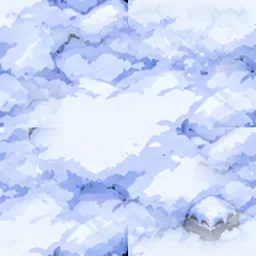
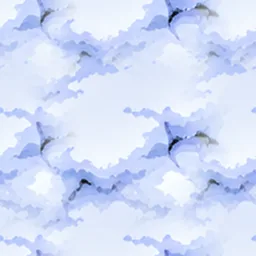
Whiteout Station: burning lab uses the game's own animated fire (no GIF), cleaner snow tile
Claude-Session: https://claude.ai/code/session_01DZ7TQ884r4s3ytnVNv4XVF

diff --git a/client/whiteoutArt.js b/client/whiteoutArt.js
@@ -1,3 +1,3 @@
 // GENERATED by tools/extract-whiteout.py: Whiteout Station piece sizes + lights / fires (offsets from the bottom centre)
-export const WO_ART = {"wLab":{"url":"assets/map/wo/wLab.webp","w":400,"h":355,"lights":[[35,-209],[1,-210],[-32,-209],[-123,-117],[3,-119],[60,-137],[-82,-138],[115,-137],[181,-105,1],[162,-289,1]]},"wDome":{"url":"assets/map/wo/wDome.webp","w":380,"h":344,"lights":[[-149,-95],[167,-100],[-104,-37,1]]},"wQuarters":{"url":"assets/map/wo/wQuarters.webp","w":390,"h":363,"lights":[[-100,-92],[89,-85],[-18,-174],[-103,-204],[-132,-170],[70,-198],[-39,-71],[96,-163],[55,-80],[49,-170],[-130,-51,1],[28,-150,1]]},"wHangar":{"url":"assets/map/wo/wHangar.webp","w":430,"h":326,"lights":[[-46,-34],[47,-31],[61,-122],[-63,-132],[1,-19],[0,-132],[-100,-72],[-51,-243],[51,-243],[-125,-107],[-159,-71,1],[-136,-144,1]]},"wRig":{"url":"assets/map/wo/wRig.webp","w":440,"h":409,"lights":[[-119,-142],[37,-357],[193,-62],[35,-129],[136,-58],[8,-360],[31,-253],[-174,-138],[0,-176],[115,-268],[144,-135,1],[-181,-210,1]]},"wPlane":{"url":"assets/map/wo/wPlane.webp","w":540,"h":474,"lights":[[110,-364],[-197,-116],[137,-136],[141,-285,1],[28,-31,1]]},"wWall":{"url":"assets/map/wo/wWall.webp","w":520,"h":161,"lights":[[-141,-77],[143,-77],[-1,-78],[-209,-152],[-230,-115,1]]},"wGate":{"url":"assets/map/wo/wGate.webp","w":760,"h":245,"lights":[[230,-171],[-230,-172],[-232,-115],[194,-169],[231,-115],[269,-166],[-231,-47],[231,-47],[-193,-171],[342,-87],[166,-29],[-269,-170],[341,-47,1],[-343,-47,1]]},"wLabBurnt":{"url":"assets/map/wo/wLabBurnt.webp","w":408,"h":370,"frames":9,"ms":130,"ax":201,"fires":[[22,-281,1.3],[-119,-110,1.1],[74,-111,1.08],[-33,-209,1.06]],"anim":1},"wContainers":{"url":"assets/map/wo/wContainers.webp","w":210,"h":188},"wGenerator":{"url":"assets/map/wo/wGenerator.webp","w":150,"h":109},"wTank":{"url":"assets/map/wo/wTank.webp","w":190,"h":180},"wTankRound":{"url":"assets/map/wo/wTankRound.webp","w":165,"h":180},"wSnowcat":{"url":"assets/map/wo/wSnowcat.webp","w":180,"h":146,"lights":[[-4,-104],[-42,-72],[-31,-66,1]]},"wTruck":{"url":"assets/map/wo/wTruck.webp","w":205,"h":171,"lights":[[8,-78],[-66,-89]]},"wForklift":{"url":"assets/map/wo/wForklift.webp","w":135,"h":117,"lights":[]},"wBuggy":{"url":"assets/map/wo/wBuggy.webp","w":140,"h":107,"lights":[]},"wWatchtower":{"url":"assets/map/wo/wWatchtower.webp","w":140,"h":186,"lights":[[-16,-122],[24,-124],[-52,-108]]},"wMast":{"url":"assets/map/wo/wMast.webp","w":100,"h":152,"lights":[[6,-144],[-1,-142,1]]},"wDish":{"url":"assets/map/wo/wDish.webp","w":160,"h":175},"wShed":{"url":"assets/map/wo/wShed.webp","w":200,"h":137,"lights":[[-52,-73],[54,-69,1]]},"wSandbags":{"url":"assets/map/wo/wSandbags.webp","w":190,"h":155,"lights":[[4,-45],[50,-133]]},"wBarrier":{"url":"assets/map/wo/wBarrier.webp","w":150,"h":105},"wCrates":{"url":"assets/map/wo/wCrates.webp","w":150,"h":135},"wGasRack":{"url":"assets/map/wo/wGasRack.webp","w":130,"h":116},"wRocks":{"url":"assets/map/wo/wRocks.webp","w":150,"h":132},"wIce":{"url":"assets/map/wo/wIce.webp","w":150,"h":139},"wPines":{"url":"assets/map/wo/wPines.webp","w":140,"h":140},"wRockArch":{"url":"assets/map/wo/wRockArch.webp","w":150,"h":101},"wFloodlight":{"url":"assets/map/wo/wFloodlight.webp","w":110,"h":126,"lights":[[19,-96]]},"wLamp":{"url":"assets/map/wo/wLamp.webp","w":84,"h":130,"lights":[[19,-97]]},"wWindsock":{"url":"assets/map/wo/wWindsock.webp","w":90,"h":117},"wBeacon":{"url":"assets/map/wo/wBeacon.webp","w":90,"h":105,"lights":[[3,-96],[2,-95,1]]},"wShelf":{"url":"assets/map/wo/wShelf.webp","w":140,"h":138},"wPipes":{"url":"assets/map/wo/wPipes.webp","w":140,"h":94},"wBarrels":{"url":"assets/map/wo/wBarrels.webp","w":110,"h":93},"wBigCrate":{"url":"assets/map/wo/wBigCrate.webp","w":140,"h":115,"lights":[[-40,-60],[-19,-64,1],[-45,-28,1]]},"wFence":{"url":"assets/map/wo/wFence.webp","w":150,"h":140},"wSign":{"url":"assets/map/wo/wSign.webp","w":110,"h":115},"wFlag":{"url":"assets/map/wo/wFlag.webp","w":90,"h":104}};
+export const WO_ART = {"wLab":{"url":"assets/map/wo/wLab.webp","w":400,"h":355,"lights":[[35,-209],[1,-210],[-32,-209],[-123,-117],[3,-119],[60,-137],[-82,-138],[115,-137],[181,-105,1],[162,-289,1]]},"wDome":{"url":"assets/map/wo/wDome.webp","w":380,"h":344,"lights":[[-149,-95],[167,-100],[-104,-37,1]]},"wQuarters":{"url":"assets/map/wo/wQuarters.webp","w":390,"h":363,"lights":[[-100,-92],[89,-85],[-18,-174],[-103,-204],[-132,-170],[70,-198],[-39,-71],[96,-163],[55,-80],[49,-170],[-130,-51,1],[28,-150,1]]},"wHangar":{"url":"assets/map/wo/wHangar.webp","w":430,"h":326,"lights":[[-46,-34],[47,-31],[61,-122],[-63,-132],[1,-19],[0,-132],[-100,-72],[-51,-243],[51,-243],[-125,-107],[-159,-71,1],[-136,-144,1]]},"wRig":{"url":"assets/map/wo/wRig.webp","w":440,"h":409,"lights":[[-119,-142],[37,-357],[193,-62],[35,-129],[136,-58],[8,-360],[31,-253],[-174,-138],[0,-176],[115,-268],[144,-135,1],[-181,-210,1]]},"wPlane":{"url":"assets/map/wo/wPlane.webp","w":540,"h":474,"lights":[[110,-364],[-197,-116],[137,-136],[141,-285,1],[28,-31,1]]},"wWall":{"url":"assets/map/wo/wWall.webp","w":520,"h":161,"lights":[[-141,-77],[143,-77],[-1,-78],[-209,-152],[-230,-115,1]]},"wGate":{"url":"assets/map/wo/wGate.webp","w":760,"h":245,"lights":[[230,-171],[-230,-172],[-232,-115],[194,-169],[231,-115],[269,-166],[-231,-47],[231,-47],[-193,-171],[342,-87],[166,-29],[-269,-170],[341,-47,1],[-343,-47,1]]},"wLabBurnt":{"url":"assets/map/wo/wLabBurnt.webp","w":400,"h":361,"fires":[[29,-275,1.4],[-27,-276,1.27],[-96,-223,1.08],[-34,-207,1.06],[-69,-139,0.97],[-118,-114,0.97],[18,-231,0.95]]},"wContainers":{"url":"assets/map/wo/wContainers.webp","w":210,"h":188},"wGenerator":{"url":"assets/map/wo/wGenerator.webp","w":150,"h":109},"wTank":{"url":"assets/map/wo/wTank.webp","w":190,"h":180},"wTankRound":{"url":"assets/map/wo/wTankRound.webp","w":165,"h":180},"wSnowcat":{"url":"assets/map/wo/wSnowcat.webp","w":180,"h":146,"lights":[[-4,-104],[-42,-72],[-31,-66,1]]},"wTruck":{"url":"assets/map/wo/wTruck.webp","w":205,"h":171,"lights":[[8,-78],[-66,-89]]},"wForklift":{"url":"assets/map/wo/wForklift.webp","w":135,"h":117,"lights":[]},"wBuggy":{"url":"assets/map/wo/wBuggy.webp","w":140,"h":107,"lights":[]},"wWatchtower":{"url":"assets/map/wo/wWatchtower.webp","w":140,"h":186,"lights":[[-16,-122],[24,-124],[-52,-108]]},"wMast":{"url":"assets/map/wo/wMast.webp","w":100,"h":152,"lights":[[6,-144],[-1,-142,1]]},"wDish":{"url":"assets/map/wo/wDish.webp","w":160,"h":175},"wShed":{"url":"assets/map/wo/wShed.webp","w":200,"h":137,"lights":[[-52,-73],[54,-69,1]]},"wSandbags":{"url":"assets/map/wo/wSandbags.webp","w":190,"h":155,"lights":[[4,-45],[50,-133]]},"wBarrier":{"url":"assets/map/wo/wBarrier.webp","w":150,"h":105},"wCrates":{"url":"assets/map/wo/wCrates.webp","w":150,"h":135},"wGasRack":{"url":"assets/map/wo/wGasRack.webp","w":130,"h":116},"wRocks":{"url":"assets/map/wo/wRocks.webp","w":150,"h":132},"wIce":{"url":"assets/map/wo/wIce.webp","w":150,"h":139},"wPines":{"url":"assets/map/wo/wPines.webp","w":140,"h":140},"wRockArch":{"url":"assets/map/wo/wRockArch.webp","w":150,"h":101},"wFloodlight":{"url":"assets/map/wo/wFloodlight.webp","w":110,"h":126,"lights":[[19,-96]]},"wLamp":{"url":"assets/map/wo/wLamp.webp","w":84,"h":130,"lights":[[19,-97]]},"wWindsock":{"url":"assets/map/wo/wWindsock.webp","w":90,"h":117},"wBeacon":{"url":"assets/map/wo/wBeacon.webp","w":90,"h":105,"lights":[[3,-96],[2,-95,1]]},"wShelf":{"url":"assets/map/wo/wShelf.webp","w":140,"h":138},"wPipes":{"url":"assets/map/wo/wPipes.webp","w":140,"h":94},"wBarrels":{"url":"assets/map/wo/wBarrels.webp","w":110,"h":93},"wBigCrate":{"url":"assets/map/wo/wBigCrate.webp","w":140,"h":115,"lights":[[-40,-60],[-19,-64,1],[-45,-28,1]]},"wFence":{"url":"assets/map/wo/wFence.webp","w":150,"h":140},"wSign":{"url":"assets/map/wo/wSign.webp","w":110,"h":115},"wFlag":{"url":"assets/map/wo/wFlag.webp","w":90,"h":104}};
 export const WO_TILES = {"snow":"assets/map/wo/tile-snow.webp","ice":"assets/map/wo/tile-ice.webp","metal":"assets/map/wo/tile-metal.webp","concrete":"assets/map/wo/tile-concrete.webp"};

diff --git a/client/mapLayout.js b/client/mapLayout.js
@@ -139,7 +139,7 @@ export function buildDynastyLayout(WW, WH, start = 8888) {
 // ---------- WHITEOUT STATION (grid map, Nov 10): an Antarctic research station built as a TIGHT MAZE (art: tools/extract-whiteout.py) ----------
 // Sprite sizes (game px). Footprints cover most of each sprite's height (not just its base like the older maps): in narrow lanes you
 // must never be able to walk "behind" a building and vanish under its roof.
-export const WO_SIZE = { wLab: [400, 355], wDome: [380, 344], wQuarters: [390, 363], wHangar: [430, 326], wRig: [440, 409], wPlane: [540, 474], wWall: [520, 161], wGate: [760, 245], wLabBurnt: [408, 370], wContainers: [210, 188], wGenerator: [150, 109], wTank: [190, 180], wTankRound: [165, 180], wSnowcat: [180, 146], wTruck: [205, 171], wForklift: [135, 117], wBuggy: [140, 107], wWatchtower: [140, 186], wMast: [100, 152], wDish: [160, 175], wShed: [200, 137], wSandbags: [190, 155], wBarrier: [150, 105], wCrates: [150, 135], wGasRack: [130, 116], wRocks: [150, 132], wIce: [150, 139], wPines: [140, 140], wRockArch: [150, 101], wFloodlight: [110, 126], wLamp: [84, 130], wWindsock: [90, 117], wBeacon: [90, 105], wShelf: [140, 138], wPipes: [140, 94], wBarrels: [110, 93], wBigCrate: [140, 115], wFence: [150, 140], wSign: [110, 115], wFlag: [90, 104] };
+export const WO_SIZE = { wLab: [400, 355], wDome: [380, 344], wQuarters: [390, 363], wHangar: [430, 326], wRig: [440, 409], wPlane: [540, 474], wWall: [520, 161], wGate: [760, 245], wLabBurnt: [400, 361], wContainers: [210, 188], wGenerator: [150, 109], wTank: [190, 180], wTankRound: [165, 180], wSnowcat: [180, 146], wTruck: [205, 171], wForklift: [135, 117], wBuggy: [140, 107], wWatchtower: [140, 186], wMast: [100, 152], wDish: [160, 175], wShed: [200, 137], wSandbags: [190, 155], wBarrier: [150, 105], wCrates: [150, 135], wGasRack: [130, 116], wRocks: [150, 132], wIce: [150, 139], wPines: [140, 140], wRockArch: [150, 101], wFloodlight: [110, 126], wLamp: [84, 130], wWindsock: [90, 117], wBeacon: [90, 105], wShelf: [140, 138], wPipes: [140, 94], wBarrels: [110, 93], wBigCrate: [140, 115], wFence: [150, 140], wSign: [110, 115], wFlag: [90, 104] };
 export const WO_KINDS = Object.keys(WO_SIZE);
 const woBox = (k, wf = .45, hf = .72) => { const [w, h] = WO_SIZE[k]; return { ox: 0, oy: -Math.round((h * hf + 6) / 2), hw: Math.round(w * wf), hh: Math.round((h * hf - 6) / 2) }; };
 for (const k of WO_KINDS) MAP_SOLID[k] = woBox(k);

diff --git a/server/src/mapLayout.js b/server/src/mapLayout.js
@@ -139,7 +139,7 @@ export function buildDynastyLayout(WW, WH, start = 8888) {
 // ---------- WHITEOUT STATION (grid map, Nov 10): an Antarctic research station built as a TIGHT MAZE (art: tools/extract-whiteout.py) ----------
 // Sprite sizes (game px). Footprints cover most of each sprite's height (not just its base like the older maps): in narrow lanes you
 // must never be able to walk "behind" a building and vanish under its roof.
-export const WO_SIZE = { wLab: [400, 355], wDome: [380, 344], wQuarters: [390, 363], wHangar: [430, 326], wRig: [440, 409], wPlane: [540, 474], wWall: [520, 161], wGate: [760, 245], wLabBurnt: [408, 370], wContainers: [210, 188], wGenerator: [150, 109], wTank: [190, 180], wTankRound: [165, 180], wSnowcat: [180, 146], wTruck: [205, 171], wForklift: [135, 117], wBuggy: [140, 107], wWatchtower: [140, 186], wMast: [100, 152], wDish: [160, 175], wShed: [200, 137], wSandbags: [190, 155], wBarrier: [150, 105], wCrates: [150, 135], wGasRack: [130, 116], wRocks: [150, 132], wIce: [150, 139], wPines: [140, 140], wRockArch: [150, 101], wFloodlight: [110, 126], wLamp: [84, 130], wWindsock: [90, 117], wBeacon: [90, 105], wShelf: [140, 138], wPipes: [140, 94], wBarrels: [110, 93], wBigCrate: [140, 115], wFence: [150, 140], wSign: [110, 115], wFlag: [90, 104] };
+export const WO_SIZE = { wLab: [400, 355], wDome: [380, 344], wQuarters: [390, 363], wHangar: [430, 326], wRig: [440, 409], wPlane: [540, 474], wWall: [520, 161], wGate: [760, 245], wLabBurnt: [400, 361], wContainers: [210, 188], wGenerator: [150, 109], wTank: [190, 180], wTankRound: [165, 180], wSnowcat: [180, 146], wTruck: [205, 171], wForklift: [135, 117], wBuggy: [140, 107], wWatchtower: [140, 186], wMast: [100, 152], wDish: [160, 175], wShed: [200, 137], wSandbags: [190, 155], wBarrier: [150, 105], wCrates: [150, 135], wGasRack: [130, 116], wRocks: [150, 132], wIce: [150, 139], wPines: [140, 140], wRockArch: [150, 101], wFloodlight: [110, 126], wLamp: [84, 130], wWindsock: [90, 117], wBeacon: [90, 105], wShelf: [140, 138], wPipes: [140, 94], wBarrels: [110, 93], wBigCrate: [140, 115], wFence: [150, 140], wSign: [110, 115], wFlag: [90, 104] };
 export const WO_KINDS = Object.keys(WO_SIZE);
 const woBox = (k, wf = .45, hf = .72) => { const [w, h] = WO_SIZE[k]; return { ox: 0, oy: -Math.round((h * hf + 6) / 2), hw: Math.round(w * wf), hh: Math.round((h * hf - 6) / 2) }; };
 for (const k of WO_KINDS) MAP_SOLID[k] = woBox(k);

diff --git a/client/client.js b/client/client.js
@@ -3583,11 +3583,12 @@ function dynPieceFx(d, a) {
     ctx.globalCompositeOperation = "lighter"; ctx.globalAlpha = 1;
     const g = ctx.createRadialGradient(x, y, 2, x, y, 46 * s); g.addColorStop(0, `rgba(255,150,50,${.4 * k})`); g.addColorStop(1, "rgba(255,90,20,0)"); ctx.fillStyle = g; ctx.fillRect(x - 46 * s, y - 46 * s, 92 * s, 92 * s);
     ctx.globalCompositeOperation = "source-over"; if (a.anim) return;   // the art already burns: only the glow
-    if (i === 0 && mapFireImg.naturalWidth) for (let j = 0; j < 4; j++) {   // smoke from the biggest fire
+    if ((i === 0 || (i < 3 && d.kind[0] === "w")) && mapFireImg.naturalWidth) for (let j = 0; j < 4; j++) {   // smoke from the biggest fire (the three biggest on Whiteout Station's burning lab)
       const u = (t * .08 + j / 4 + seed * .01) % 1, r = (18 + u * 50) * s;
       ctx.globalAlpha = .55 * Math.sin(u * Math.PI); ctx.drawImage(mapFireImg, 0, MFIRE.h, MFIRE.puff, MFIRE.puff, x + u * 24 * s - r / 2, y - 20 * s - u * 130 * s - r / 2, r, r);
     }
-    drawFireSprite(x, y + 10 * s, s * .62, i * 5 + seed, t, .95);
+    if (d.kind[0] === "w") { drawFireSprite(x - 9 * s, y + 12 * s, s * .8, i * 5 + seed + 3, t, .9); drawFireSprite(x + 8 * s, y + 12 * s, s * .9, i * 7 + seed, t, .95); }   // Whiteout Station's lab: a fuller blaze at each spot
+    else drawFireSprite(x, y + 10 * s, s * .62, i * 5 + seed, t, .95);
   });
   if (a.lights) {   // lanterns / lit windows: soft warm halo that breathes and now and then stutters
     ctx.globalCompositeOperation = "lighter";

diff --git a/client/index.html b/client/index.html
@@ -533,5 +533,5 @@ body.in-match #ls{display:none}
 <div id="spectate" class="spectate hidden" aria-live="polite"><b id="specTitle"></b><span><span id="specWho"></span><small id="specHint"> · Space / ← → / click to switch</small></span></div>
  <div id="overlay" class="overlay hidden"><div class="modal"><div style="font-size:42px">☣</div><h2 id="overlayTitle"></h2><p class="muted" id="overlayText"></p><div id="shop" class="shop hidden" aria-label="Shop"></div><div id="breakBtns" class="break-btns hidden"><button class="button primary" id="breakReady">READY</button><button class="button" id="breakMin">▾ MINIMIZE · BUILD FIRST</button><button class="button hidden" id="nextStage">START NOW</button></div><button class="button primary hidden" id="restartGame">PLAY AGAIN</button></div></div>
 </section>
-<script type="module" src="./client.js?v=20261110k"></script>
+<script type="module" src="./client.js?v=20261110l"></script>
 </body></html>

diff --git a/tools/extract-whiteout.py b/tools/extract-whiteout.py
@@ -1,6 +1,6 @@
 # WHITEOUT STATION (grid map, Nov 10) pieces from the user's ChatGPT art in tools/art/whiteout (all on solid magenta #FF00FF):
 #   big-<name>.png   one big building per image (lab, labBurnt, dome, quarters, hangar, rig, plane, wall, gate)
-#   labBurnt.gif     the burning lab ANIMATED (9 frames, 412px): used for wLabBurnt instead of the still picture
+#   labBurnt.gif     an animated version of the burning lab (not used any more: the game animates its own fire on the still picture)
 #   buildings.png    4x4 sheet with black grid lines: containers, generator, tank, round tank / snowcat, truck, forklift, buggy /
 #                    watchtower, mast, dish, shed / sandbags, barrier, crates, gas rack
 #   props.png        4x4 sheet: rocks, ice spikes, pines, rock arch / floodlight, lamp, windsock, beacon / shelf, pipes, barrels, big crate /
@@ -78,20 +78,10 @@ def load(name): return key(np.array(Image.open(os.path.join(ART, name)).convert(
 BIG = {'lab': (400, 8), 'dome': (380, 5), 'quarters': (390, 10), 'hangar': (430, 10), 'rig': (440, 10), 'plane': (540, 3), 'wall': (520, 5), 'gate': (760, 12)}
 for k, (w, nl) in BIG.items(): save('w' + k[0].upper() + k[1:], load('big-' + k + '.png'), w, nl)
 
-# the burning lab: the user's animated GIF -> one row of frames, all cut with the same box so the building doesn't jump
-g = Image.open(os.path.join(ART, 'labBurnt.gif')); frames = []
-for i in range(g.n_frames): g.seek(i); frames.append(key(np.array(g.convert('RGB'))))
-allm = np.any([f[..., 3] > 0 for f in frames], 0); ys, xs = np.where(allm); y0, y1, x0, x1 = ys.min(), ys.max() + 1, xs.min(), xs.max() + 1
-body = np.all([f[..., 3] > 0 for f in frames], 0); bx = np.where(body.any(0))[0]   # the building itself (in every frame): its width sets the scale, like the still lab
-sc = 400 / (bx.max() - bx.min() + 1) * (1254 / 1254); fw, fh = round((x1 - x0) * sc), round((y1 - y0) * sc)
-sheet = Image.new('RGBA', (fw * len(frames), fh))
-for i, f in enumerate(frames):
-    im = Image.fromarray(np.ascontiguousarray(f[y0:y1, x0:x1])).resize((fw, fh), Image.LANCZOS); a = np.array(im); a[..., 3] = np.where(a[..., 3] > 90, 255, 0); sheet.paste(Image.fromarray(a), (i * fw, 0))
-sheet.save(os.path.join(OUT, 'wLabBurnt.webp'), quality=74, method=6, alpha_quality=80)
-a0 = np.array(sheet)[:, :fw]; cxb = (bx.min() + bx.max() + 1) / 2 - x0   # the building's centre inside the frame (smoke hangs off to the right)
-pieces['wLabBurnt'] = {'url': 'assets/map/wo/wLabBurnt.webp', 'w': fw, 'h': fh, 'frames': len(frames), 'ms': g.info.get('duration', 130), 'ax': round(cxb * sc),
-                       'fires': [[round(x - cxb * sc), round(y - fh), round(min(1.4, .45 + (s ** .5) / 30), 2)] for x, y, s in spots(a0, 'fire', 4)], 'anim': 1}
-print(f'wLabBurnt    {fw}x{fh} x {len(frames)} frames, centre x {round(cxb * sc)}, fires {len(pieces["wLabBurnt"]["fires"])}, {os.path.getsize(os.path.join(OUT, "wLabBurnt.webp")) // 1024} KB')
+# the burning lab (Nov 10, user: no GIF, "do your own magic"): the still picture; the game adds its own animated flames, rising smoke,
+# glow and embers at the fire spots found here (same as Fallen Dynasty's burnt shops). Cutting the painted smoke cloud away was tried and
+# dropped: it is the same dark grey as the roof machinery and took pieces of the building with it.
+save('wLabBurnt', load('big-labBurnt.png'), 400, 0, 7)
 
 b = grid_cells(load('buildings.png'), 4)
 BLD = [[('wContainers', 210, 0), ('wGenerator', 150, 0), ('wTank', 190, 0), ('wTankRound', 165, 0)],
@@ -120,9 +110,16 @@ def blend(a):   # organic textures: blend with a half-offset copy (edges come fr
     a = a.astype(float); h, w = a.shape[:2]; s = np.roll(np.roll(a, h // 2, 0), w // 2, 1)
     yy, xx = np.mgrid[0:h, 0:w]; d = np.minimum.reduce([xx, yy, w - 1 - xx, h - 1 - yy]) / (min(h, w) * .25)
     k = np.clip(d, 0, 1)[..., None]; return (a * k + s * (1 - k)).astype(np.uint8)
+def soft_blend(a):   # snow: flatten the big light / dark areas first (they showed as squares when the tile repeats), then make it wrap
+    a = a.astype(float); h, w = a.shape[:2]; a = np.clip(a - ndimage.gaussian_filter(a, (h * .16, w * .16, 0), mode='wrap') + a.mean((0, 1)), 0, 255)
+    # two passes (across, then down): each blends with a copy shifted half a tile along ONE axis, so no seam of the copy is ever left showing
+    for ax, n in ((1, w), (0, h)):
+        k = np.clip((np.abs(np.arange(n) - n / 2) / (n / 2) - .35) / .5, 0, 1); k = k * k * (3 - 2 * k); k = k[None, :, None] if ax == 1 else k[:, None, None]
+        a = a * (1 - k) + np.roll(a, n // 2, ax) * k
+    return a.astype(np.uint8)
 def mirror(a): top = np.concatenate([a, a[:, ::-1]], 1); return np.concatenate([top, top[::-1]], 0)   # built patterns: mirrored 2x2 = seamless with no ghosting
 # (x0, y0, x1, y1) as fractions of each tile, method, brightness
-TILES = {'snow': (.3, .25, .72, .67, blend, 1.0), 'ice': (.30, .22, .66, .58, mirror, .98), 'metal': (.135, .135, .5, .5, mirror, .92), 'concrete': (.2, .2, .5, .5, mirror, .95)}
+TILES = {'snow': (.28, .04, .70, .42, soft_blend, 1.0), 'ice': (.30, .22, .66, .58, mirror, .98), 'metal': (.135, .135, .5, .5, mirror, .92), 'concrete': (.2, .2, .5, .5, mirror, .95)}
 for (name, (fx0, fy0, fx1, fy1, how, dim)), (c0, c1) in zip(TILES.items(), runs):
     w = c1 - c0; h = ty1 - ty0; sq = t[ty0 + round(fy0 * h):ty0 + round(fy1 * h), c0 + round(fx0 * w):c0 + round(fx1 * w)]
     im = Image.fromarray(np.clip(how(sq).astype(float) * dim, 0, 255).astype(np.uint8)).resize((256, 256), Image.LANCZOS)

diff --git a/HANDOFF.md b/HANDOFF.md
@@ -371,3 +371,8 @@ Jump to wave, spawn 5 of each zombie, spawn Hivemind, boss intro now, boss to 25
 - "Can't walk between a truck and a tank": annexes used to sit 5px from their host (looked like a gap, was solid). They now stand WO_SQUEEZE = 46px away: a survivor squeezes through, a boss goes round (pocket checks unchanged).
 - Lighter tint for this map only: `SPOOKY_SNOW` (brightness .74 vs .58), applied to images flagged `_snow` (Whiteout pieces + its tiles).
 - Sims on the new default: waves OK, Butcher 91s, Abomination 167s (4 players). Cache: client.js?v=20261110k.
+
+## Nov 10 (l): burning lab without the GIF; snow tile no longer shows squares
+- User: "no need for the GIF fire, do your own magic". wLabBurnt = the STILL picture again (big-labBurnt.png, 7 fire spots detected); the game draws its own animated flames (two overlapping flipbooks per spot on "w" pieces), smoke from the 3 biggest fires, glow, embers, crackle. `drawAnimPiece` / art.frames support stays in the client for future animated pieces; labBurnt.gif is unused. Cutting the painted smoke cloud out of the picture was tried and dropped (same grey as the roof machinery).
+- Snow tile: the repeat showed as light / dark squares. `soft_blend` in the extractor flattens the large-scale shading and wraps the tile in two 1-axis passes (no leftover seam).
+- Cache: client.js?v=20261110l. Preview 14.4 MB.
